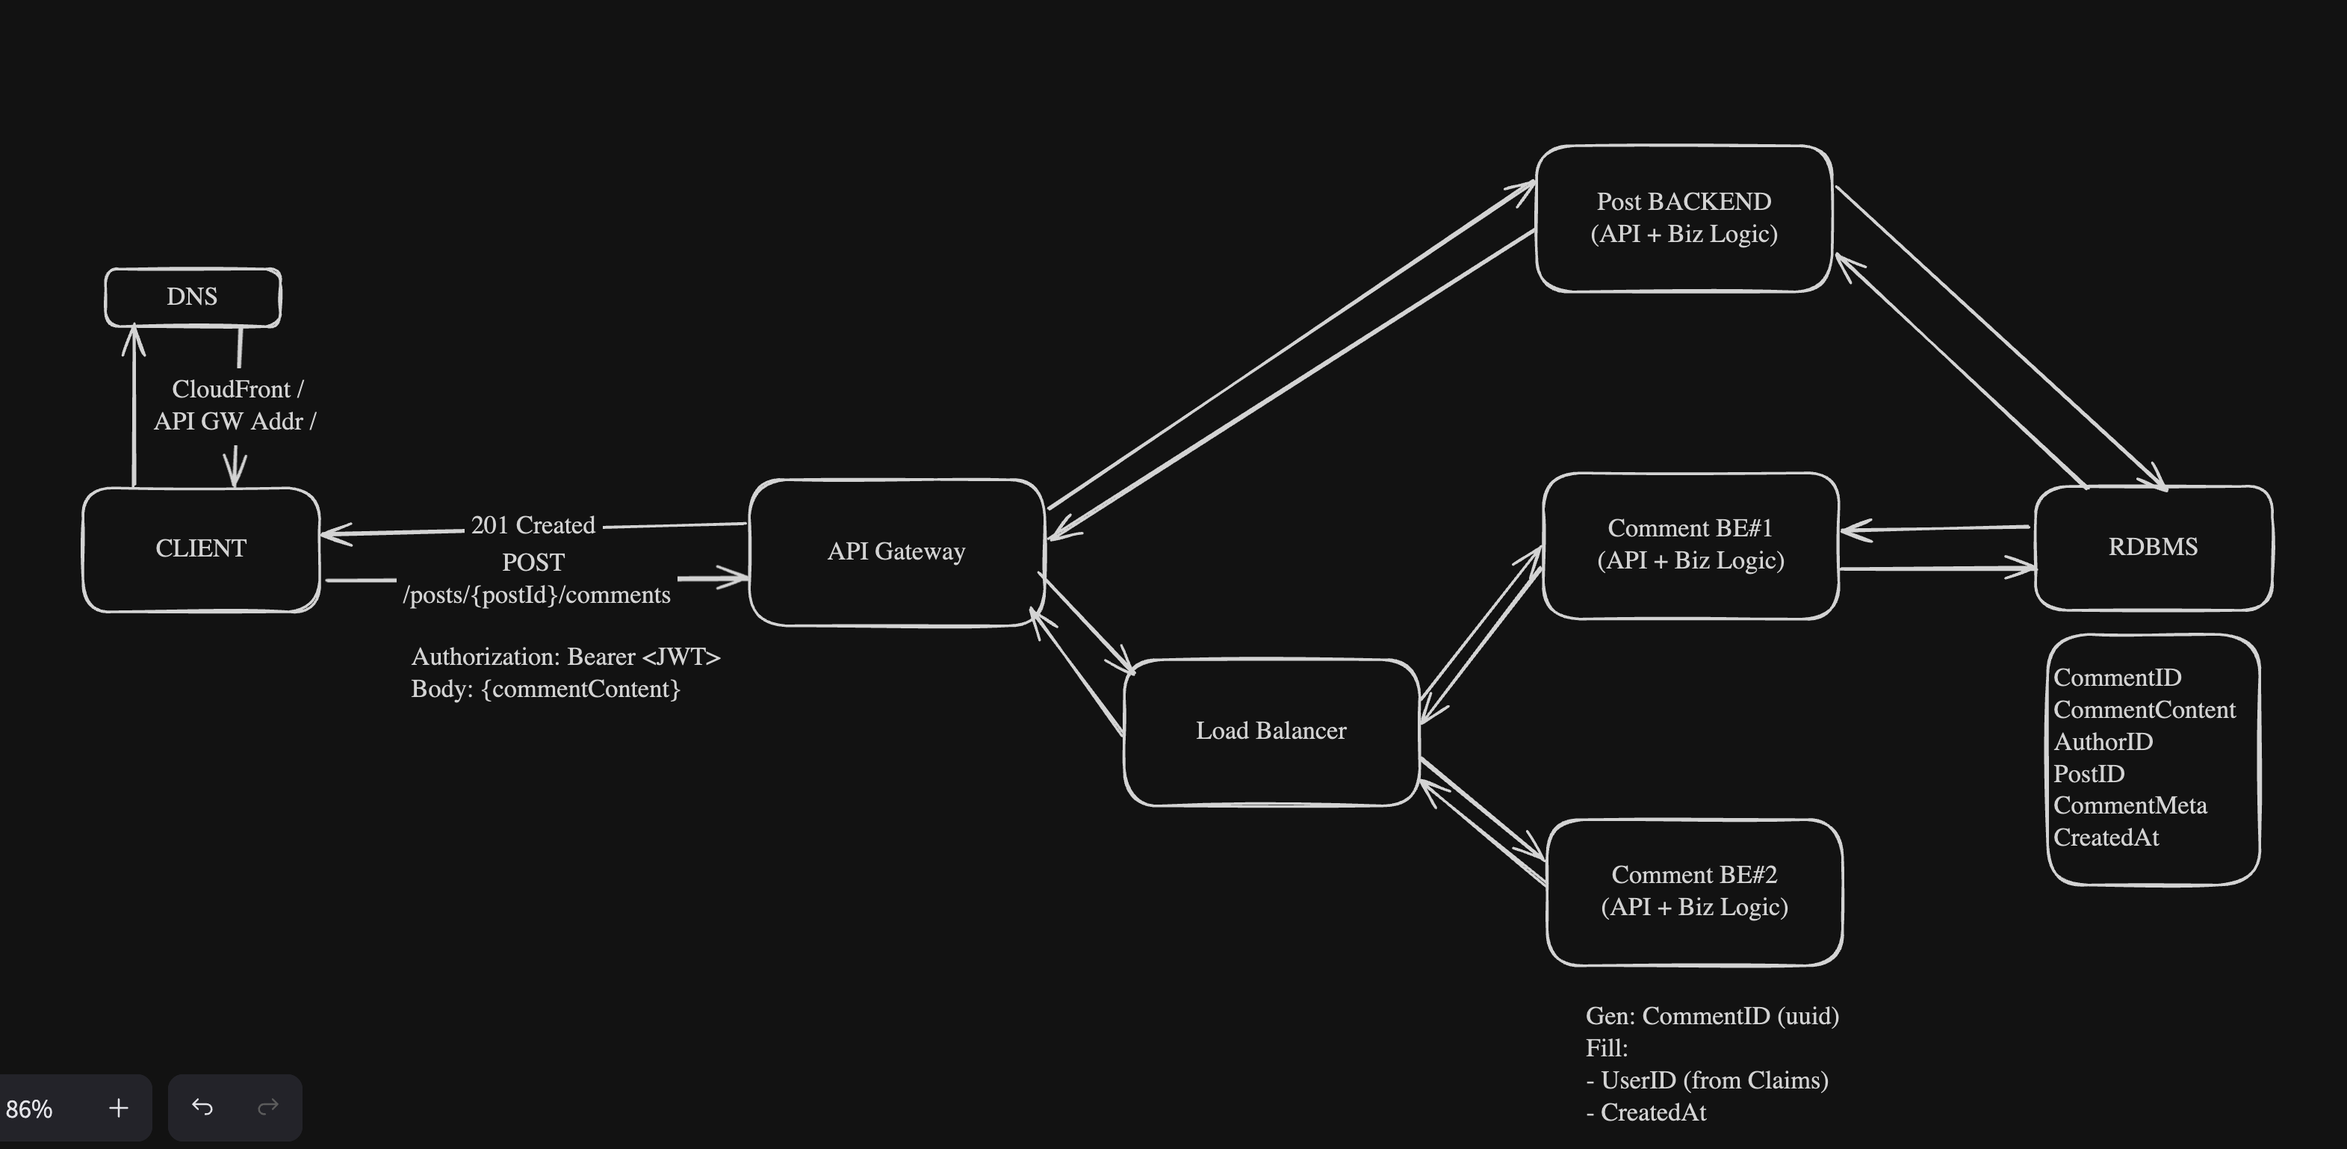
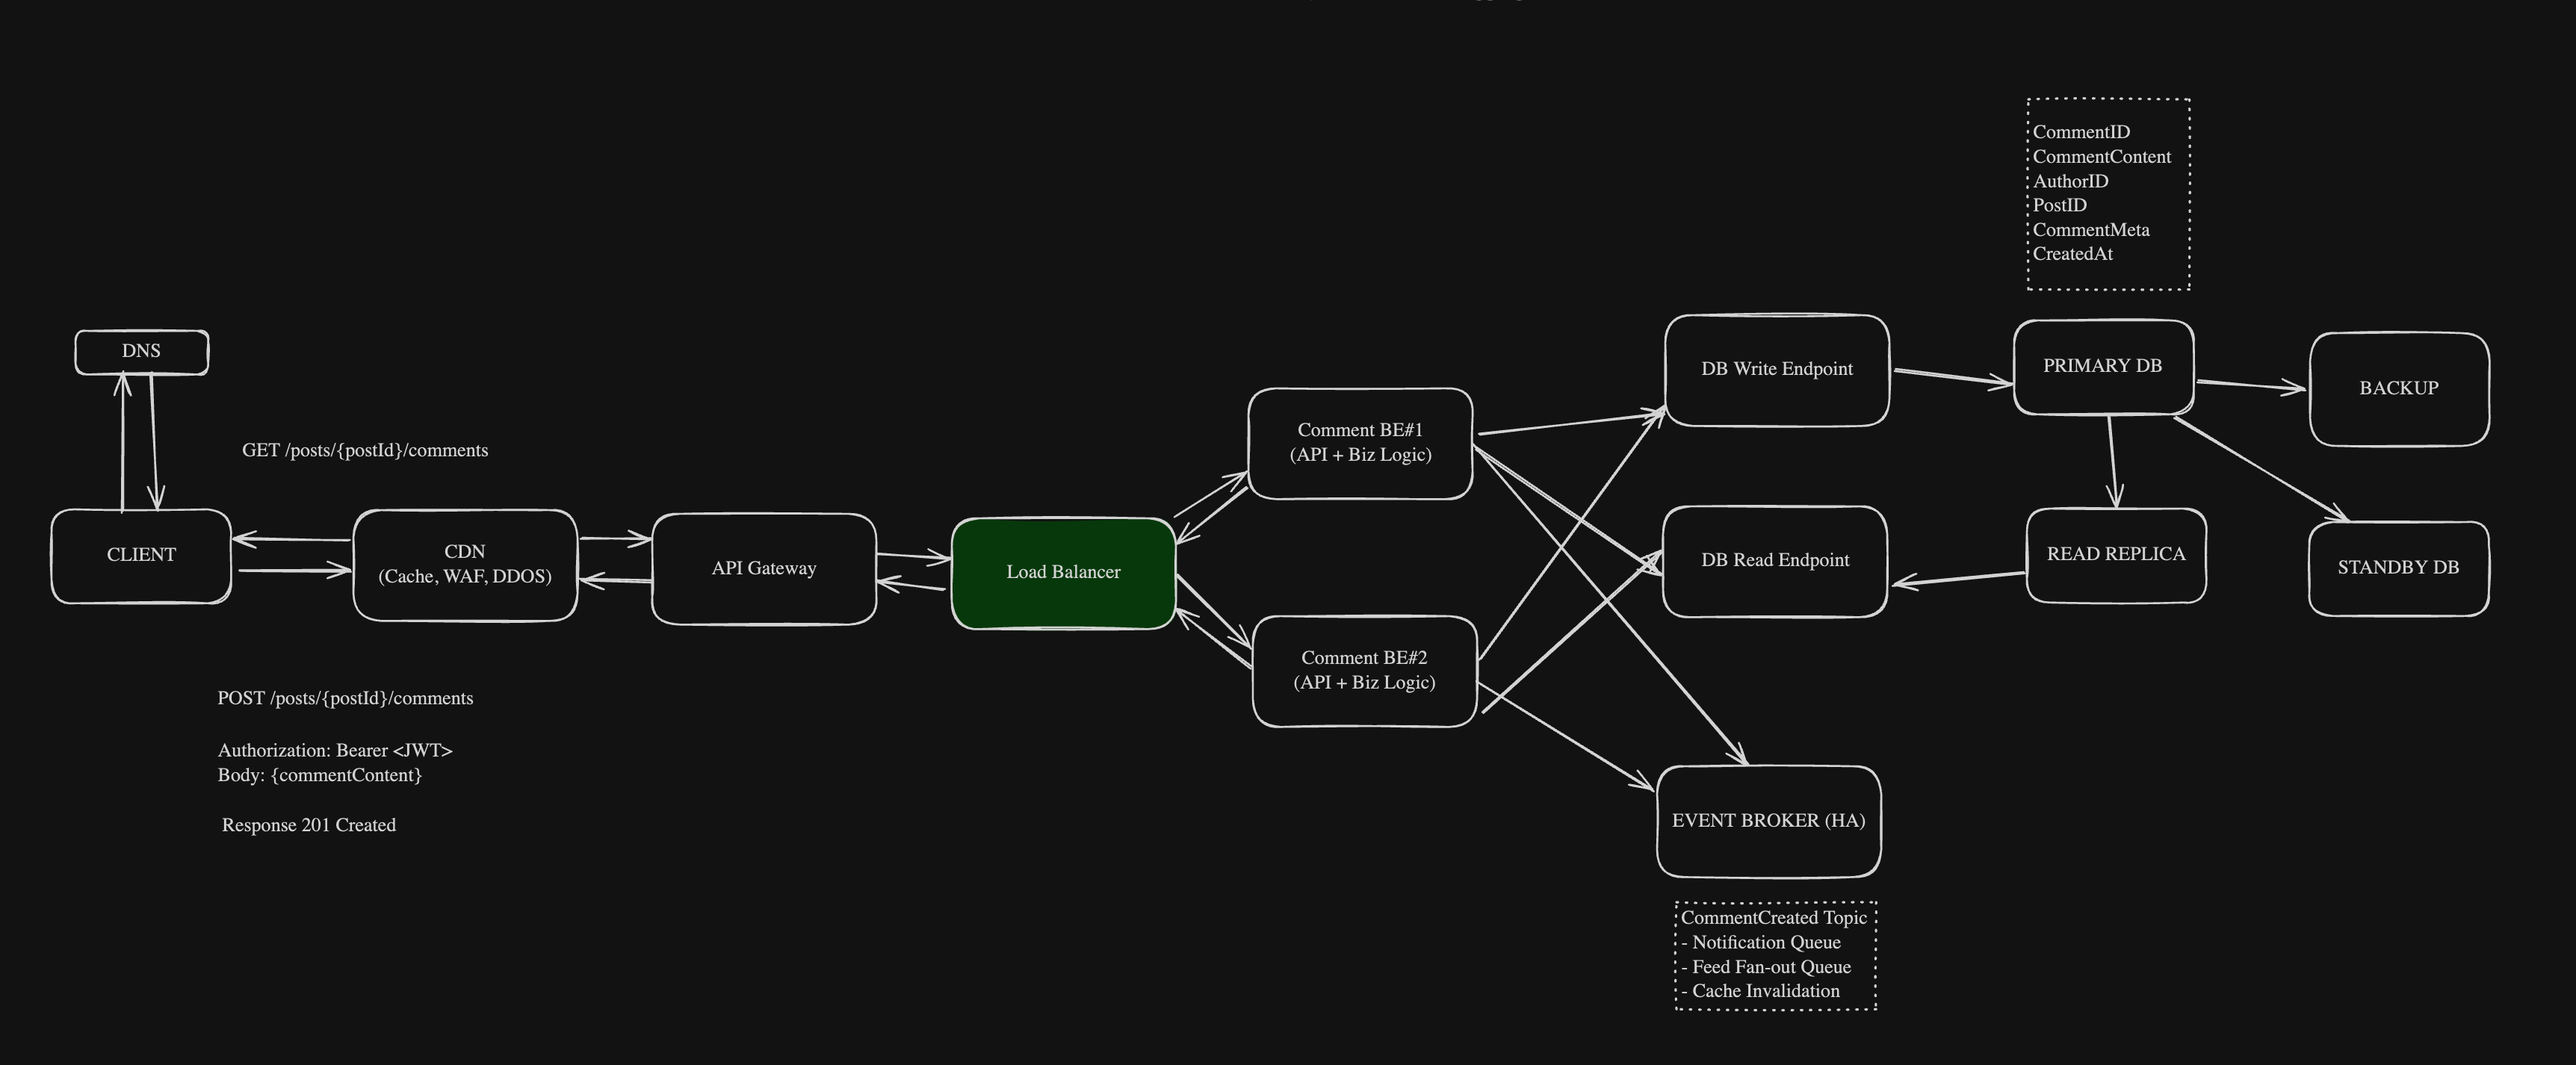
Updated Basic

diff --git a/__companies__/Karat/sys/basic/sys-basic.md b/__companies__/Karat/sys/basic/sys-basic.md
@@ -28,7 +28,7 @@ Client -> `POST /posts/{postId}/comments`
         - no-store: no one should cache
         - max-age=60: browser TTL
         - s-max-age=300: CDN TTL
-    - Invalidation (costly so TTL wisely): after posting comments, remove GET comments
+    - Invalidation (costly so TTL wisely): after `posting comments`, remove `GET comments`
     - Secrect Origin hdr: used by BE/API Gw to reject traffic that bypass CDN
  * DDOS, WAF 
 
@@ -45,7 +45,8 @@ Block suspicious requests detected by:
         - CSP (`Content-Security-Policy: default-src 'self'; script-src 'self'; object-src 'none'`): 
         - HttpOnly cookies: when `Set-Cookie: session=abc123; HttpOnly; Secure; SameSite=Lax`
             - `HttpOnly` = js cannot read this cookies
-            - `Secure`: browser sends it through HTTPS
+            - `Secure`: browser sends it through HTTPS 
+            - => so no need Header: Authentication: Bearer <JWT>
  * Banned IPs/Bots
 
 ### API Gateway
@@ -80,11 +81,9 @@ API Gateway offers:
 
 
 ### Database HA (High Availability)
-Primary => (Replication) => Standby, if Primary failover, Standby becomes Primary 
-Also Read DB, Backup DB
-All these are auto by HA manager svc so:
-=> BE points to the new Primary after failover useing same DB hostname
-=> Auto BACKUP, Replica
+`Primary` => (Replication) => `Standby`, if Primary failover, `Standby` becomes Primary 
+* `HA manager`: auto monitor health, failover, promotion (=> BE points to new Primary w same DB hostname)
+* `DBMS`: auto stream trans from `Prim` to `Read Replica`, handle `Backup` (scheduled snapshots, trans logs)
 
 Replication choices:
 * Sync: Prim waits Standby's confirm before commit succeeds: reliable but slow => for important only
@@ -94,11 +93,27 @@ Terms:
  * RPO (Recovery Point Objective): how old data in Standby allowed when getting promoted
  * RTO (Recovery Time Objective): max downtime, otherwise considered failover
 
-### Event queue
-### Async follower fan-out
-### Cache invalidation
-### Observability
+### Event Broker (Kafka, RabbitMQ, AWS SNS + SQS.)
+Instead of processing related logics, BE send `Event` (eg: `CommentCreated`) to event brokers and resp 201 immediately. Brokers queue and process afterward
+ * Each broker has multiple topics, each topic has multiple queues, each queue has workers to process. Eg:
+ * CommentCreated Topic:
+   ├→ Noti Queue -> workers -> notify post author/replied users
+   ├→ Feed/Fan-out Queue -> workers -> update follower feeds
+   ├→ Cache Invalidation Queue -> workers -> del comment:post:123 + CDN API Purge: /posts/123/comments
 
+ * Fan-out (distribute event to many affected users):
+     -  Fan-out on write: author creates post, write post to all followers' feed => lot writes if many followers
+     -  Fan-out on read: user open feed, read changes from that user followed => slow read if followed lots
+     -  Hybrid: celeb -> on read, else, on write
+ * Error Handling:
+     - Pass -> ACK 
+     - Fail -> Retry (w Idempotency) -> Fail again -> Dead-Letter Queue (DLQ).
+ * OutboxDB:
+     - BE always saves a copy of `CommentCreated` msg to OutboxDB
+     - So if msg cannot reach brokers (unvailable, BE error after commit, ...)
+       => So later, Outbox worker schedually feeds msgs to Event Brokers to process
+
+--------------------------------------------------------------------------------
 ## CORE CONCEPTS
 ### JWT (JSON Web Token)
   ```
@@ -106,8 +121,10 @@ Terms:
 	=> Authentication server verifies the credentials.
 	=> Authentication server creates the JWT.
 	=> Authentication server signs it using its private key
-  => Responds with: `Set-Cookie: access_token=<JWT>; HttpOnly; Secure; SameSite=Lax; Path=/`
-	=> Browser receives and stores (HttpOnly Cookies) the JWT for API requests.	
+  => Responds:
+      Option 1: Bearer JWT => Client save for API request Header: Authentication: Bearer: <JWT>
+      Option 2: `Set-Cookie: access_token=<JWT>; HttpOnly; Secure; SameSite=Lax; Path=/`
+	      => Browsers saved (HttpOnly Cookies: js cannot read) and auto attach for API requests.	
 	{
    		Header: { 
 			alg: RS256, 
@@ -169,10 +186,23 @@ Terms:
 ### Sensitive-data redaction
  * remove sensitive dat before send to monitoring tools (log, report): JWT, password, credit-card
 
+--------------------------------------------------------------------------------
+## OBSERVIBILITY
+ * LOGS: wat happen (reqId,eventId,route,status,error)
+ * METRICS: sys health
+  - API: traffic, latency, error rates
+  - BE: CPU, Mem, unhealthy instances
+  - DB: connections, slow queries, replica lag (how old standby data vs primary)
+  - Broker: queue depth, fail retries rate, DLQ size (permanent failed msg)
+  - CDN: cache-hit rate
+ * TRACE: fail where: Gateway -> BE -> DB/Broker -> Worker
+  
 ### IaC
-Backend instance
+.... PENDING
 
 
+
+--------------------------------------------------------------------------------
 ## HTTP CODES
 ## 2xx Success Codes
 * 200 OK: Success.
